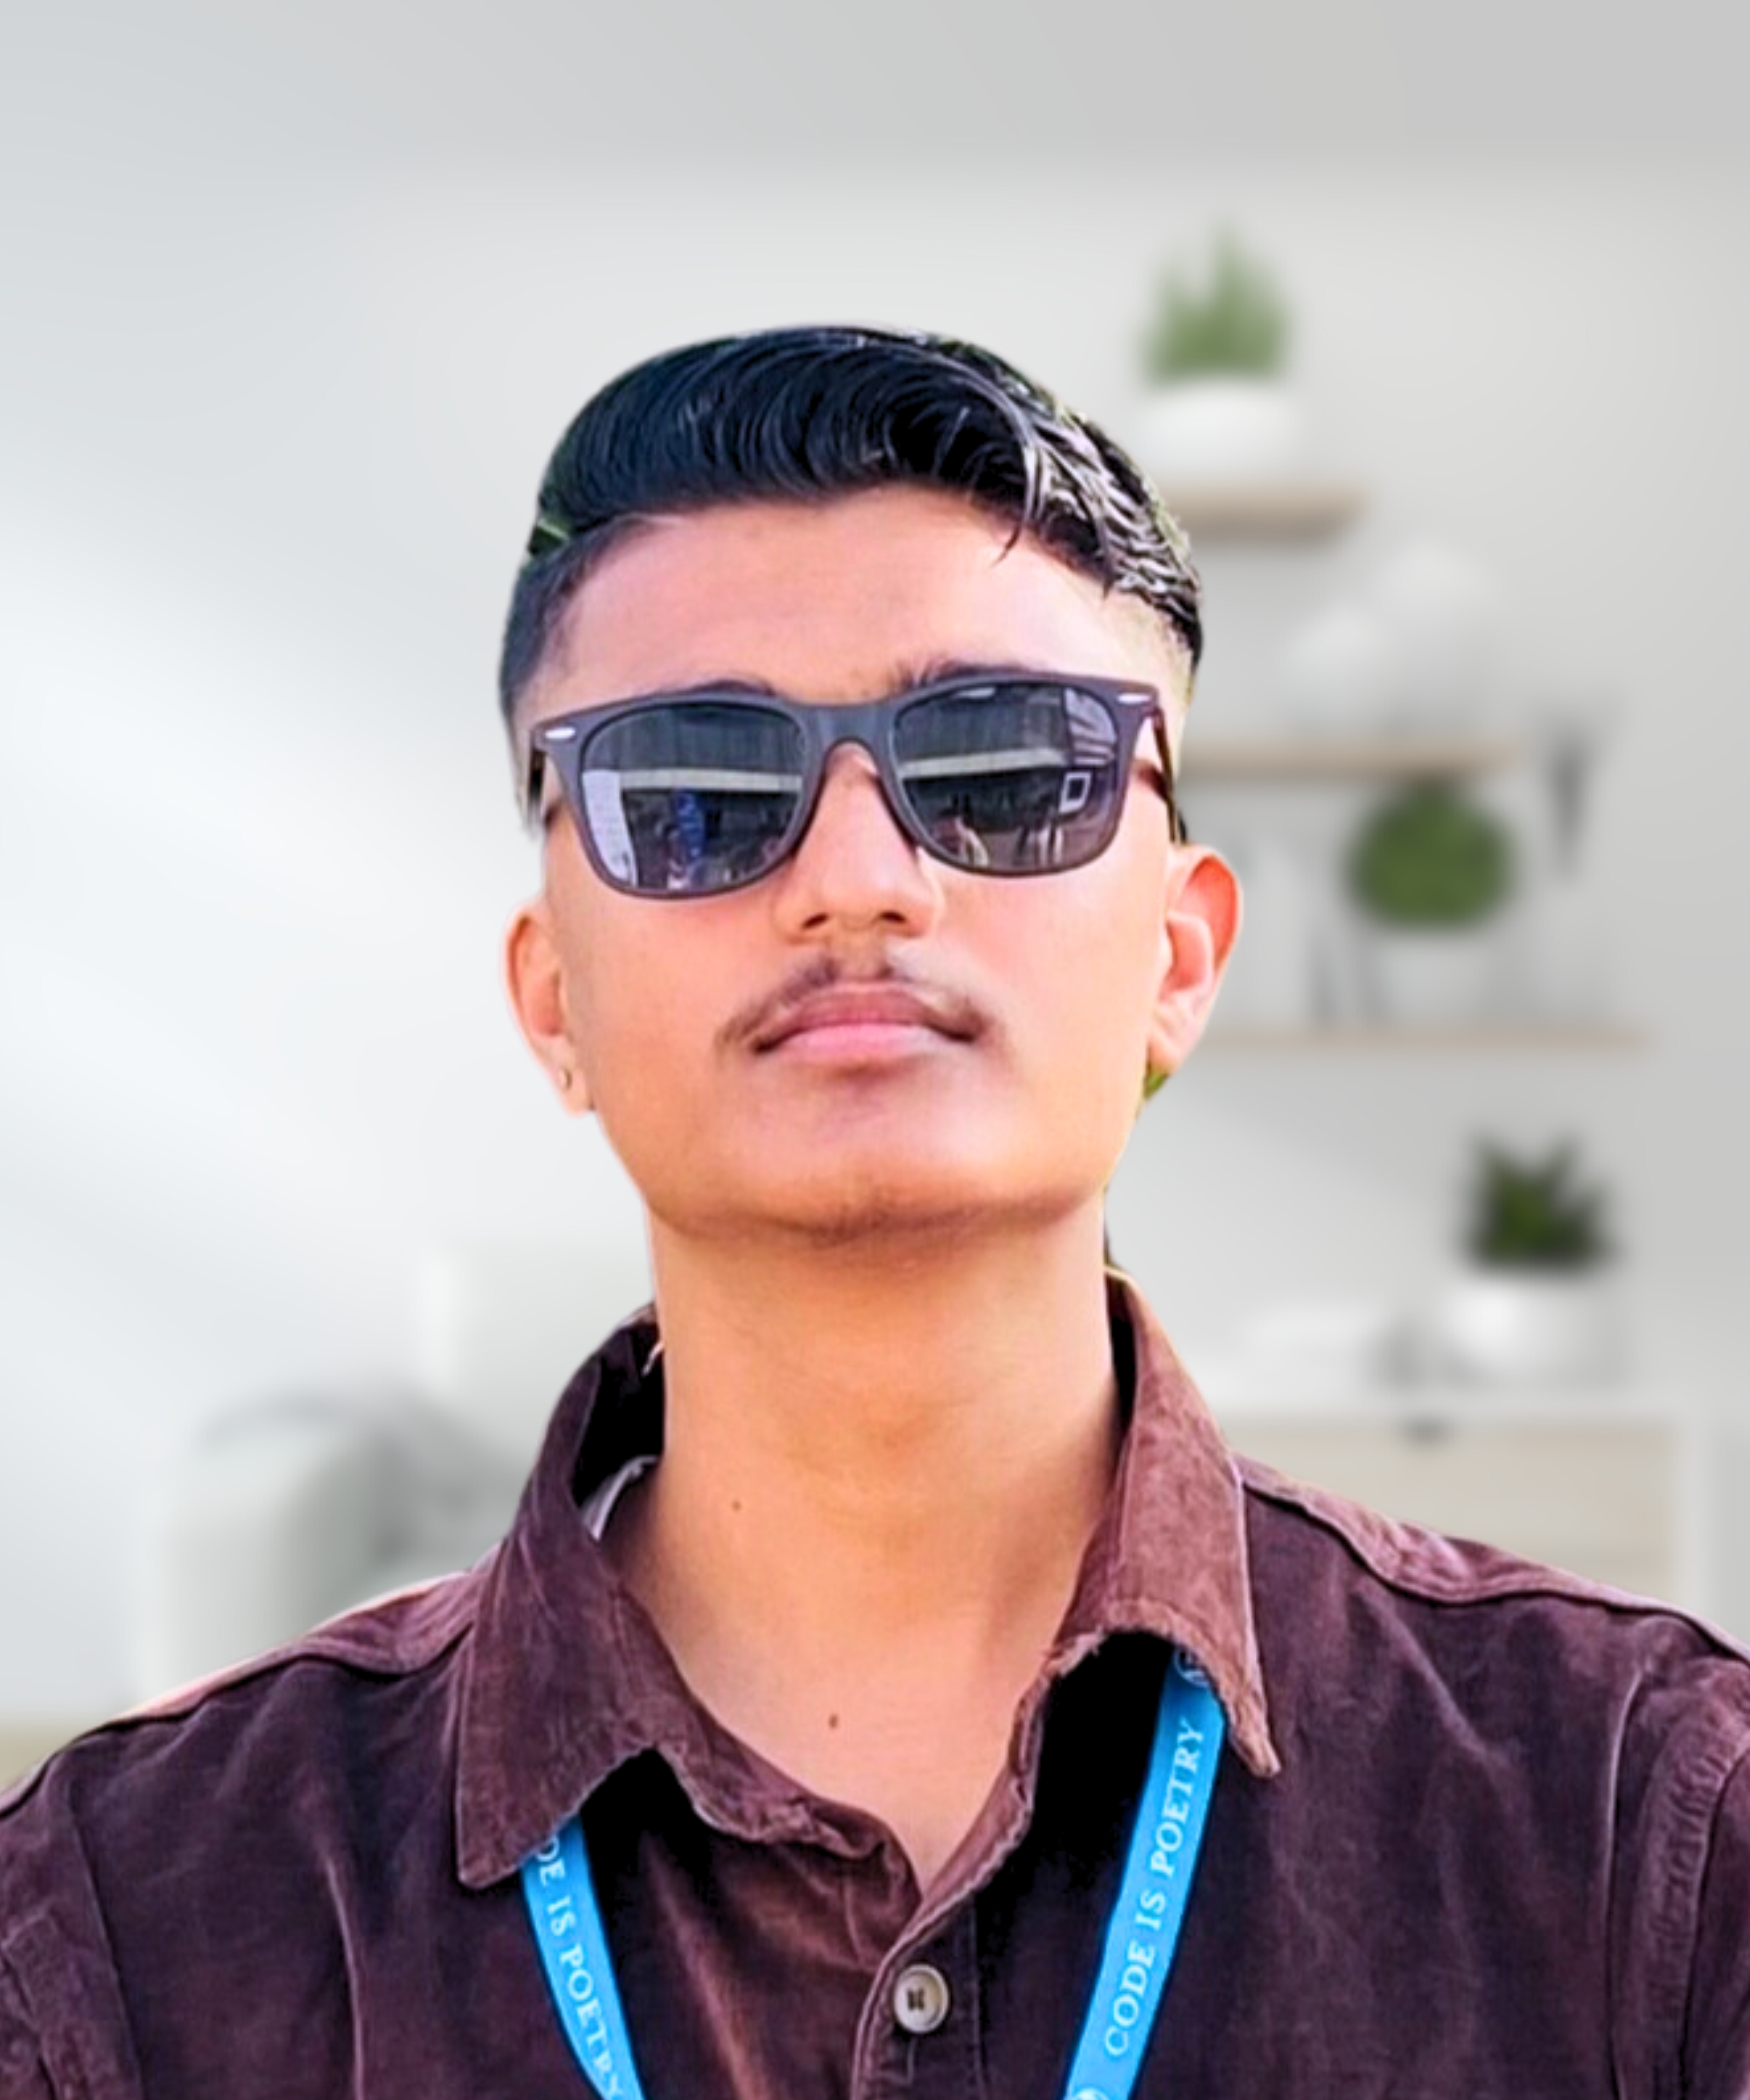
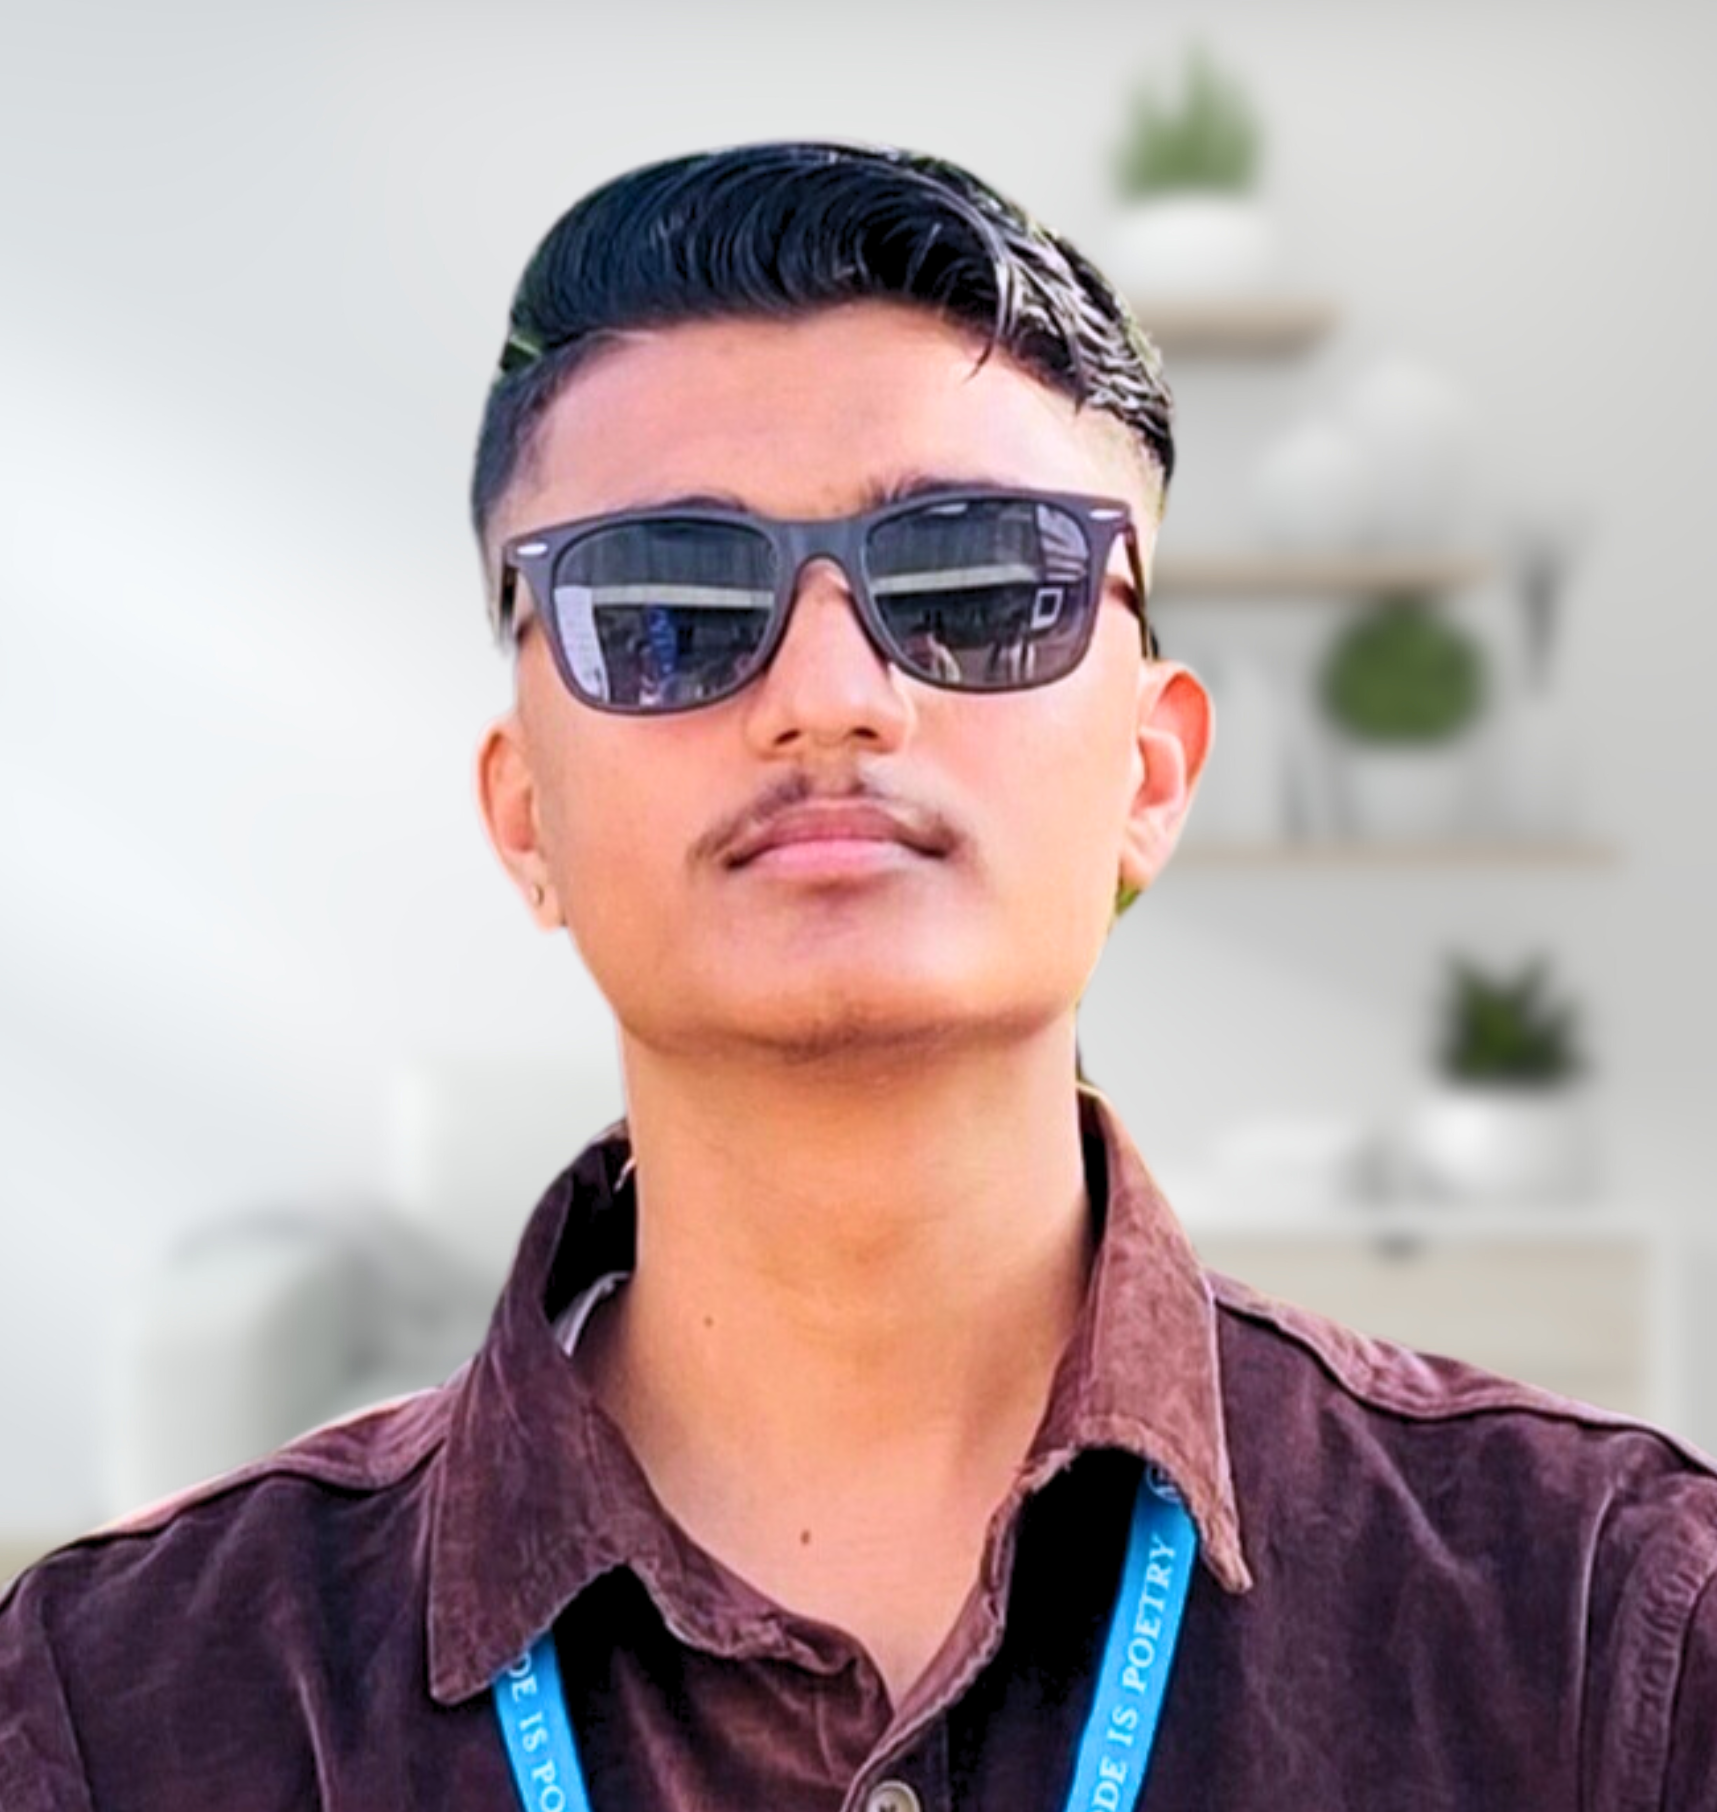
change

diff --git a/team.html b/team.html
@@ -232,6 +232,21 @@
                             </div>
                         </div>
                     </div>
+                    <div class="col-lg-4 col-md-6 wow fadeInUp" data-wow-delay="0.5s">
+                        <div class="team-item bg-light rounded">
+                            <div class="text-center border-bottom p-4">
+                                <img class="img-fluid rounded-circle mb-4" src="img/Aditya Shrestha.png" alt="">
+                                <h5>Aditya Shrestha</h5>
+                                <span>Developer</span>
+                            </div>
+                            <div class="d-flex justify-content-center p-4">
+                                <a class="btn btn-square mx-1" href="#" target="_blank"><i class="fab fa-facebook-f"></i></a>
+                                <a class="btn btn-square mx-1" href=""><i class="fa-brands fa-x-twitter"></i></a>
+                                <a class="btn btn-square mx-1" href="#" target="_blank"><i class="fab fa-instagram"></i></a>
+                                <a class="btn btn-square mx-1" href=""><i class="fab fa-linkedin-in"></i></a>
+                            </div>
+                        </div>
+                    </div>
                 </div>
             </div>
         </div>
